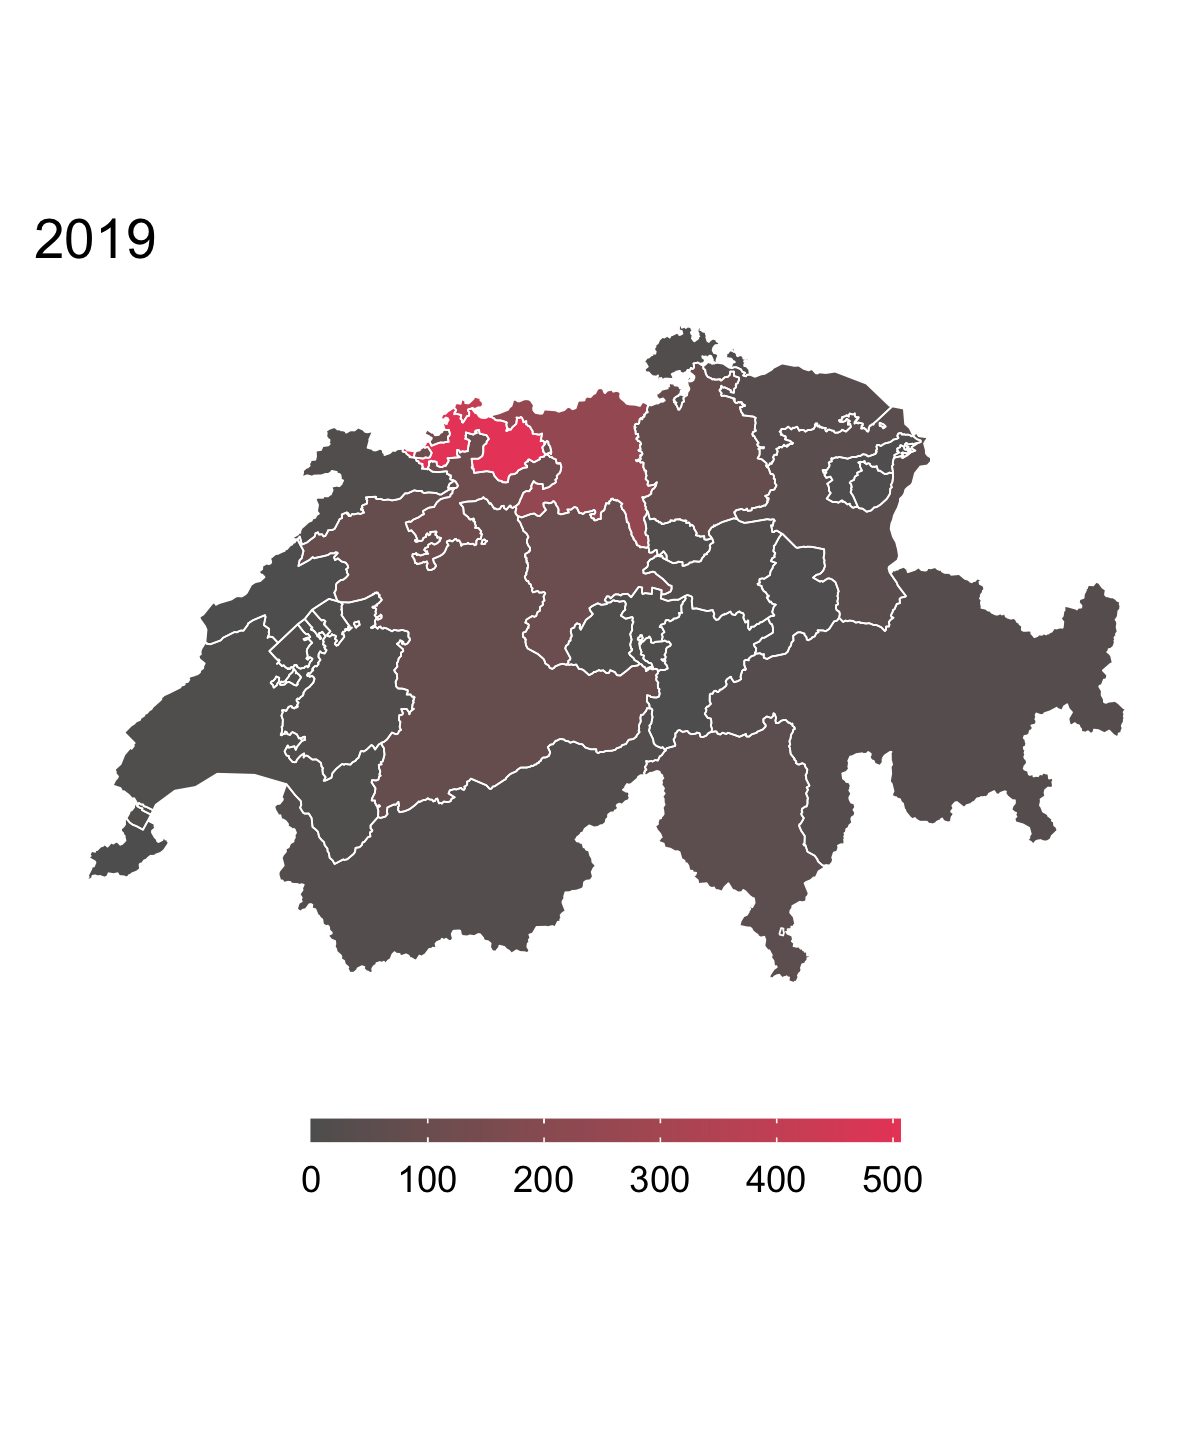
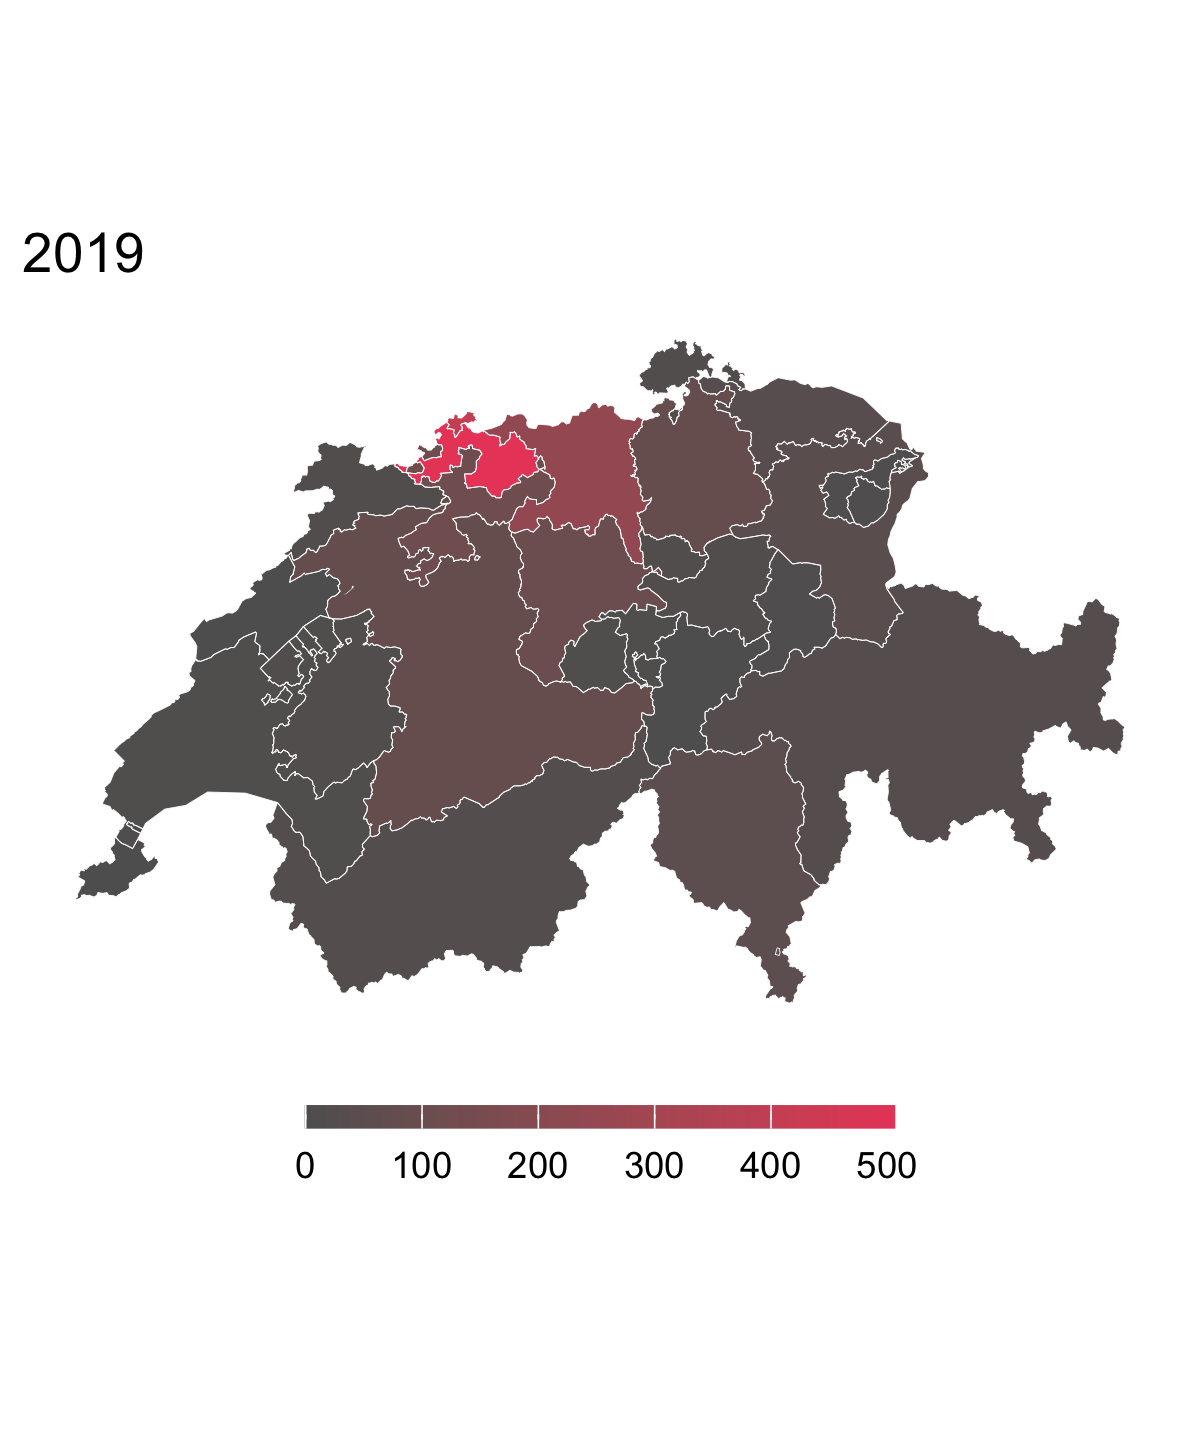
upadate intro2stats

diff --git a/_sessions/Intro2Stats/Intro2Stats.html b/_sessions/Intro2Stats/Intro2Stats.html
@@ -12,19 +12,15 @@
     <textarea id="source">
 class: center, middle, inverse, title-slide
 
+.title[
 # Einführung Statistik
-### <br> Statistik mit R<br>
-<a href='https://therbootcamp.github.io' style='font-size:1.2em;'> The R
-Bootcamp </a> <br>
-<a href='https://therbootcamp.github.io/SmR_2022Apr/'>
-<i class='fas fa-clock' style='font-size:1.2em;'></i> </a> 
-<a href='https://therbootcamp.github.io'>
-<i class='fas fa-home' style='font-size:1.2em;' ></i> </a> 
-<a href='mailto:therbootcamp@gmail.com'>
-<i class='fas fa-envelope' style='font-size: 1.2em;'></i> </a> 
-<a href='https://www.linkedin.com/company/basel-r-bootcamp/'>
-<i class='fab fa-linkedin' style='font-size: 1.2em;'></i> </a>
-### April 2022
+]
+.author[
+### <br> Statistik mit R<br> <a href='https://therbootcamp.github.io' style='font-size:1.2em;'> The R Bootcamp </a> <br> <a href='https://therbootcamp.github.io/SmR_2025Nov/'> <i class='fas fa-clock' style='font-size:1.2em;'></i> </a>  <a href='https://therbootcamp.github.io'> <i class='fas fa-home' style='font-size:1.2em;' ></i> </a>  <a href='mailto:baselrbootcamp@gmail.com'> <i class='fas fa-envelope' style='font-size: 1.2em;'></i> </a>  <a href='https://www.linkedin.com/company/basel-r-bootcamp/'> <i class='fab fa-linkedin' style='font-size: 1.2em;'></i> </a>
+]
+.date[
+### November 2025
+]
 
 ---
 
@@ -44,7 +40,7 @@ layout: true
     </a>
     <a href="https://therbootcamp.github.io/">
       <font color="#7E7E7E">
-       Statistik mit R | April 2022
+       Statistik mit R | November 2025
       </font>
     </a>
     </span>
@@ -152,7 +148,7 @@ Von &lt;i&gt;statisticum&lt;/i&gt;, lat., den Staat betreffend.&lt;br&gt;&lt;fon
 
 
 
-```r
+``` r
 immatrikulation %&gt;% 
   filter(Jahr == 2019)
 ```
@@ -160,19 +156,19 @@ immatrikulation %&gt;%
 
 ```
 ## # A tibble: 26 × 3
-##    Kanton          Jahr Immatrikulation…
-##    &lt;chr&gt;          &lt;dbl&gt;            &lt;dbl&gt;
-##  1 Aargau          2019              216
-##  2 Appenzell Aus…  2019                6
-##  3 Appenzell Inn…  2019                6
-##  4 Basel-Landsch…  2019              466
-##  5 Basel-Stadt     2019              360
-##  6 Bern            2019               73
-##  7 Freiburg        2019               12
-##  8 Genf            2019                2
-##  9 Glarus          2019                6
-## 10 Graubünden      2019               24
-## # … with 16 more rows
+##    Kanton         Jahr Immatrikulationen
+##    &lt;chr&gt;         &lt;dbl&gt;             &lt;dbl&gt;
+##  1 Aargau         2019               216
+##  2 Appenzell Au…  2019                 6
+##  3 Appenzell In…  2019                 6
+##  4 Basel-Landsc…  2019               466
+##  5 Basel-Stadt    2019               360
+##  6 Bern           2019                73
+##  7 Freiburg       2019                12
+##  8 Genf           2019                 2
+##  9 Glarus         2019                 6
+## 10 Graubünden     2019                24
+## # ℹ 16 more rows
 ```
 
 ]
@@ -205,7 +201,7 @@ immatrikulation %&gt;%
 
 
 
-```r
+``` r
 immatrikulation %&gt;% 
   filter(Jahr == 2019) %&gt;%
   summarize(
@@ -314,7 +310,7 @@ immatrikulation %&gt;%
 
 
 
-```r
+``` r
 immatrikulation
 ```
 
@@ -333,7 +329,7 @@ immatrikulation
 ##  8 Genf                        6      2
 ##  9 Glarus                      0      6
 ## 10 Graubünden                 29     24
-## # … with 16 more rows
+## # ℹ 16 more rows
 ```
 
 ]
@@ -914,7 +910,7 @@ $$ \large \bar{X} \xrightarrow{d} \mathcal{N}(\mu, \frac{\sigma}{\sqrt{n}}) $$
 ---
 class: middle, center
 
-&lt;h1&gt;&lt;a href="https://therbootcamp.github.io/SmR_2022Apr/index.html"&gt;Agenda&lt;/a&gt;&lt;/h1&gt;
+&lt;h1&gt;&lt;a href="https://therbootcamp.github.io/SmR_2025Nov/index.html"&gt;Agenda&lt;/a&gt;&lt;/h1&gt;
 
 
     </textarea>
@@ -965,6 +961,19 @@ if (window.HTMLWidgets) slideshow.on('afterShowSlide', function (slide) {
     deleted = true;
   });
 })();
+// add `data-at-shortcutkeys` attribute to <body> to resolve conflicts with JAWS
+// screen reader (see PR #262)
+(function(d) {
+  let res = {};
+  d.querySelectorAll('.remark-help-content table tr').forEach(tr => {
+    const t = tr.querySelector('td:nth-child(2)').innerText;
+    tr.querySelectorAll('td:first-child .key').forEach(key => {
+      const k = key.innerText;
+      if (/^[a-z]$/.test(k)) res[k] = t;  // must be a single letter (key)
+    });
+  });
+  d.body.setAttribute('data-at-shortcutkeys', JSON.stringify(res));
+})(document);
 (function() {
   "use strict"
   // Replace <script> tags in slides area to make them executable

diff --git a/_sessions/_header/_before.html b/_sessions/_header/_before.html
@@ -14,7 +14,7 @@ layout: true
     </a>
     <a href="https://therbootcamp.github.io/">
       <font color="#7E7E7E">
-       Statistik mit R | April 2022
+       Statistik mit R | November 2025
       </font>
     </a>
     </span>
